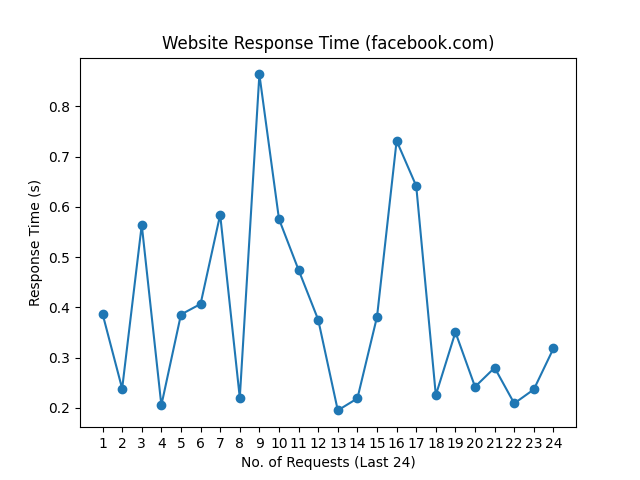
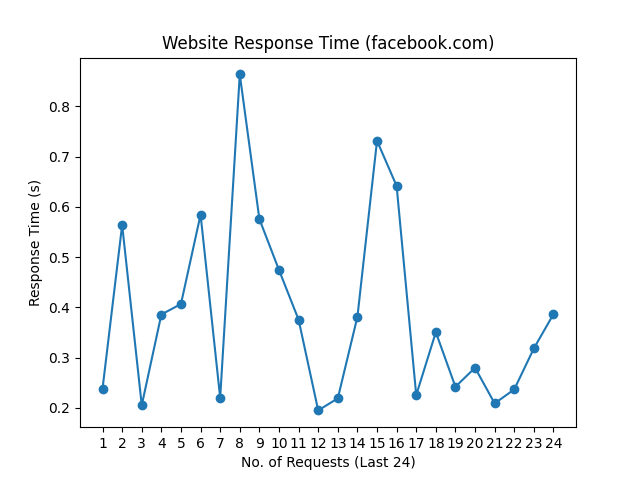
update README.md, history and graph

Changed region(s): [[0.1562, 0.125, 0.875, 0.875]]

diff --git a/README.md b/README.md
@@ -1,10 +1,10 @@
 # Web Monitoring
 
-Last Checked: 16/01/2024 09:04
+Last Checked: 17/01/2024 09:04
 
 | Website | Response Time (s) | Status | Avg Uptime (%) |
 |---------|-------------------|--------|----------------|
 | www.thiswebsiteisdown.net | 0 <br> <img src="graph/thiswebsiteisdown.net.png" alt="Graph" width="200" height="200">  | ❌ Down | 0.00 |
-| www.netflix.com | 0.502685 <br> <img src="graph/netflix.com.png" alt="Graph" width="200" height="200">  | ✅ Up | 100.00 |
-| www.google.com | 0.102456 <br> <img src="graph/google.com.png" alt="Graph" width="200" height="200">  | ✅ Up | 100.00 |
-| www.facebook.com | 0.318154 <br> <img src="graph/facebook.com.png" alt="Graph" width="200" height="200">  | ✅ Up | 100.00 |
+| www.netflix.com | 0.976437 <br> <img src="graph/netflix.com.png" alt="Graph" width="200" height="200">  | ✅ Up | 100.00 |
+| www.google.com | 0.093116 <br> <img src="graph/google.com.png" alt="Graph" width="200" height="200">  | ✅ Up | 100.00 |
+| www.facebook.com | 0.386355 <br> <img src="graph/facebook.com.png" alt="Graph" width="200" height="200">  | ✅ Up | 100.00 |
